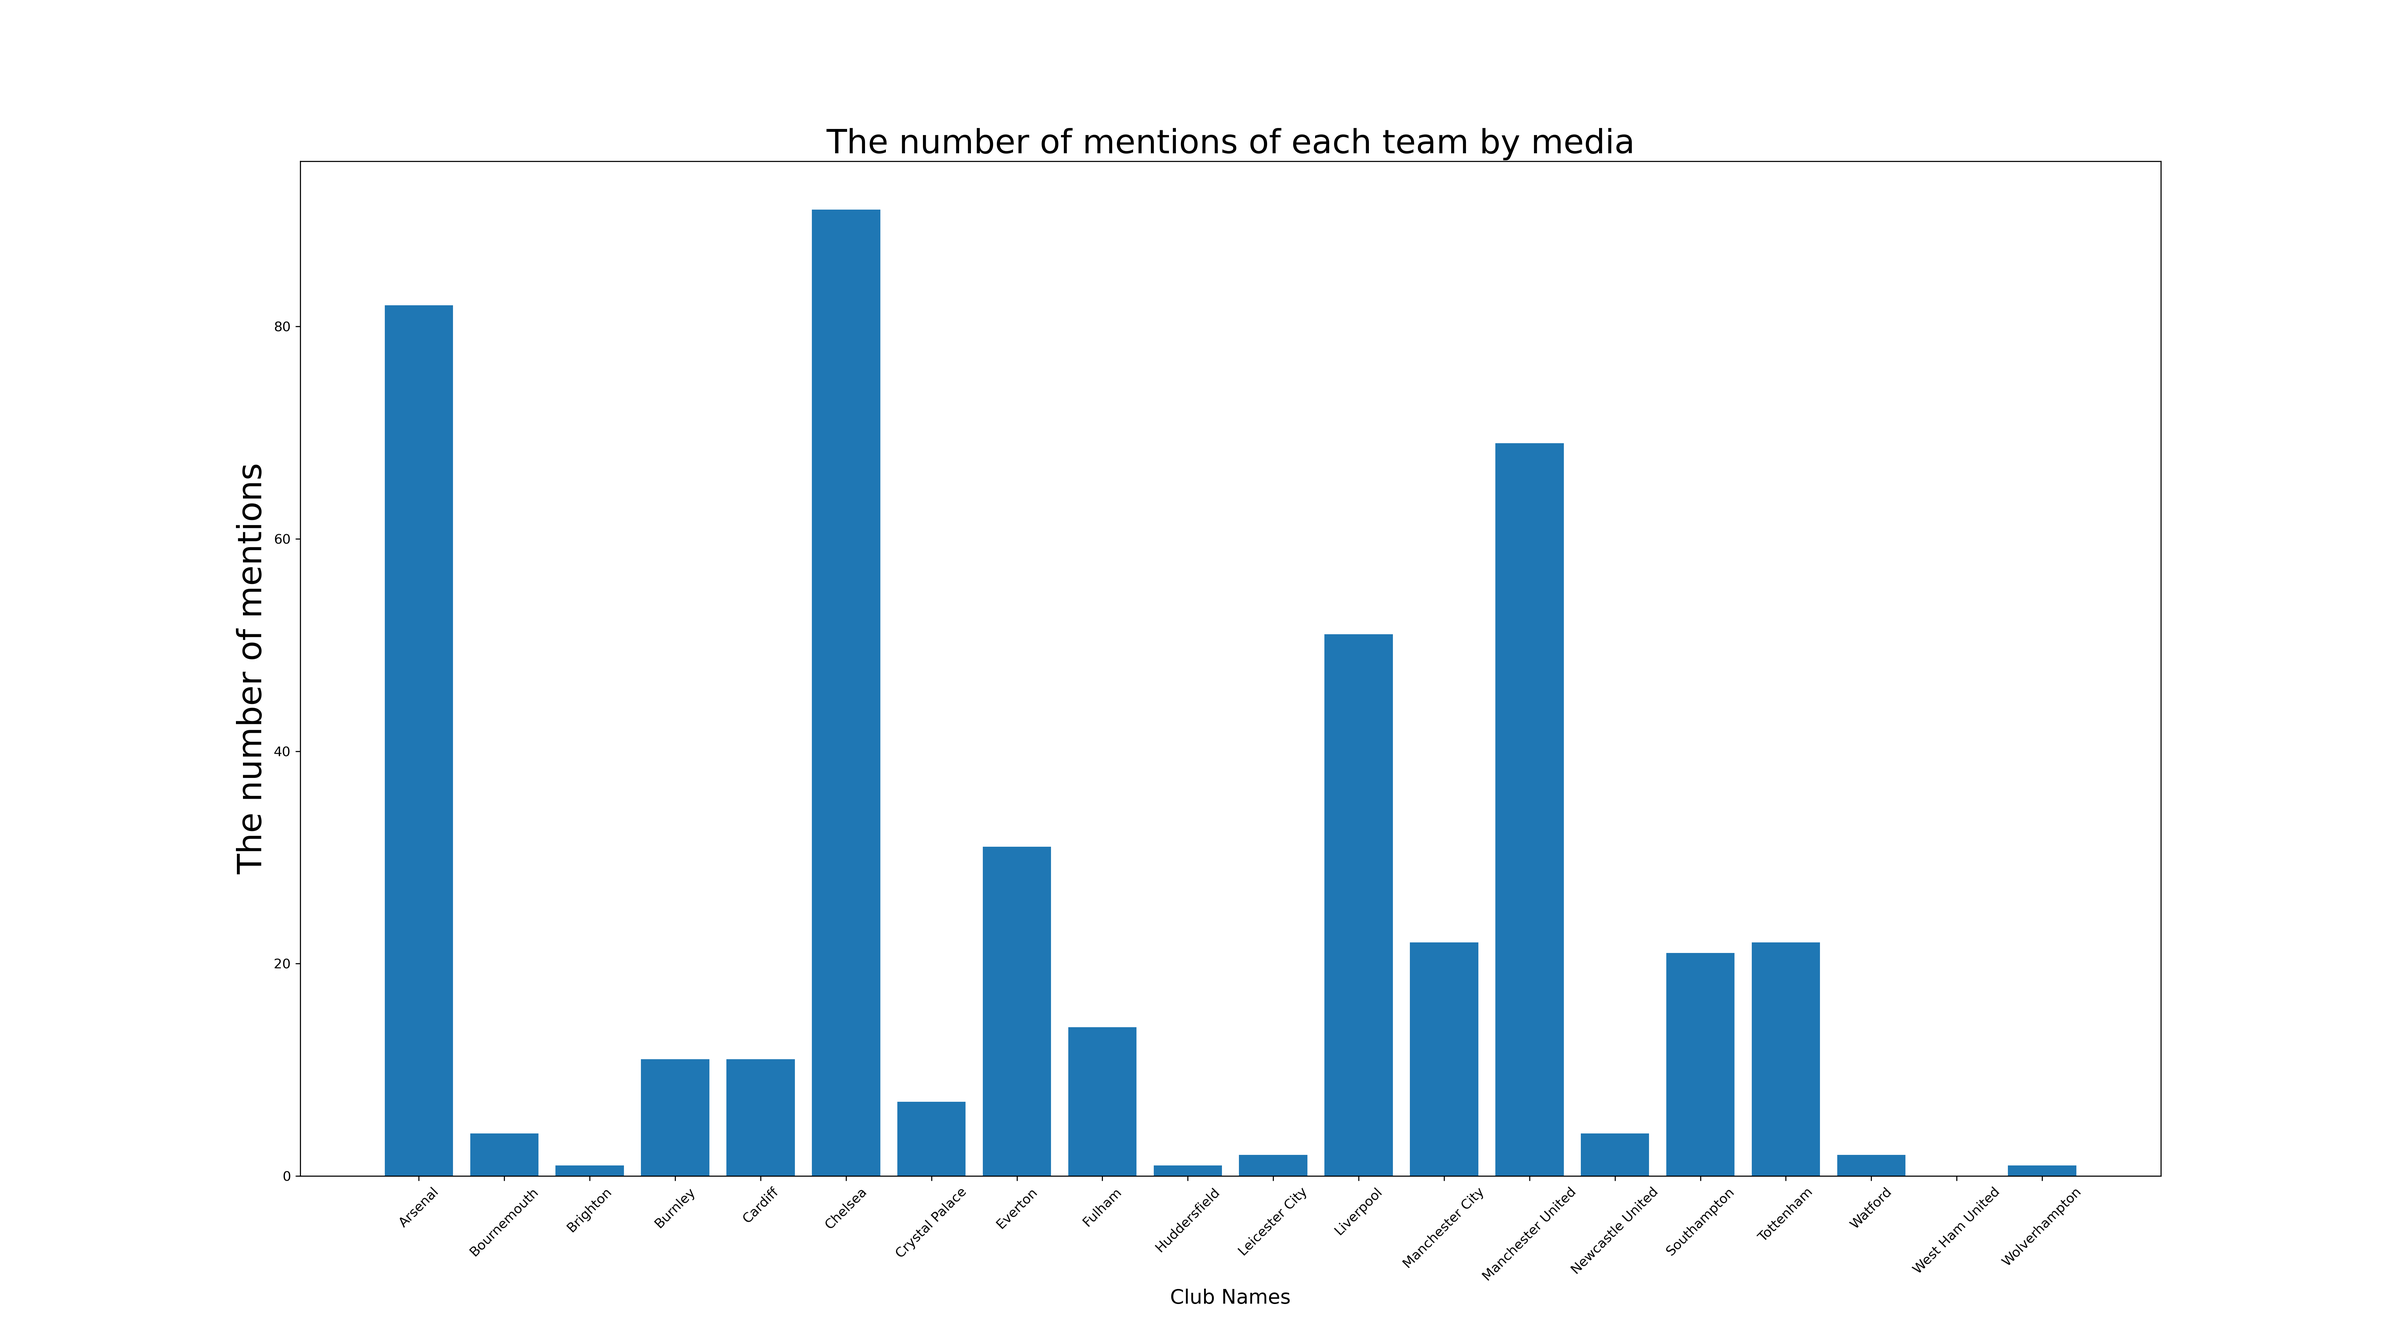
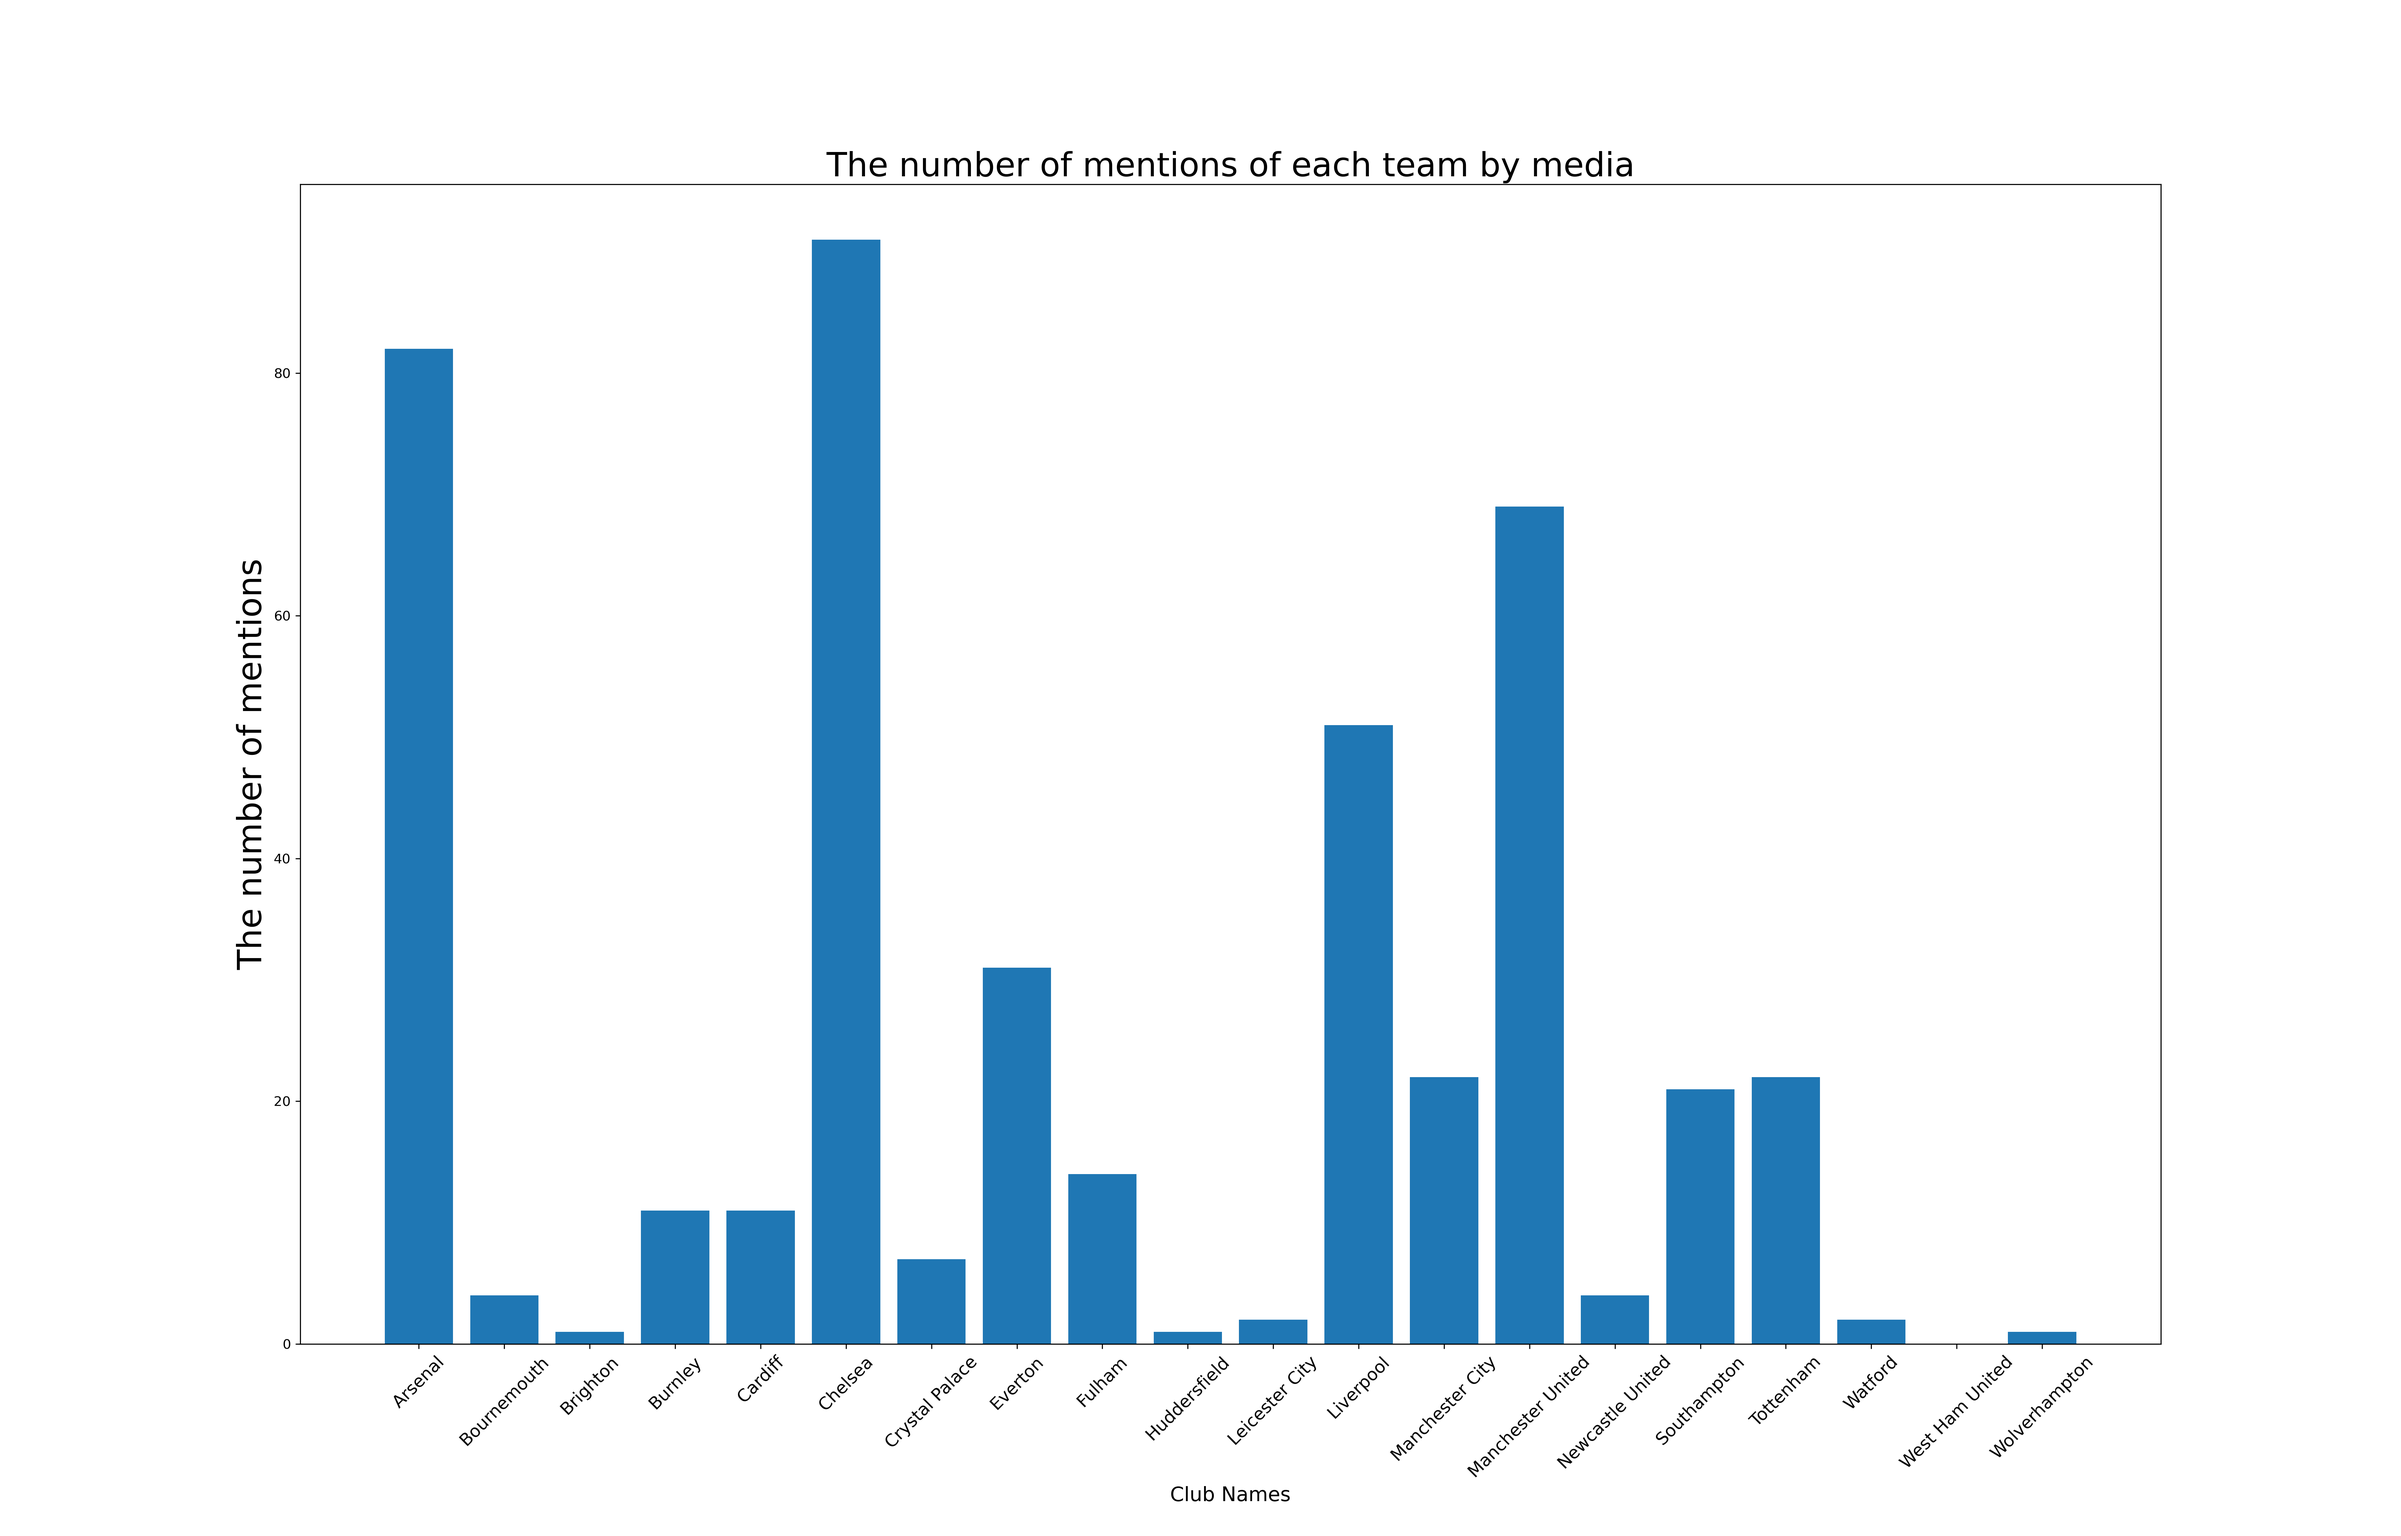
Update September 2nd

diff --git a/assignment1.py b/assignment1.py
@@ -13,7 +13,6 @@ import csv
 import os
 import re
 import seaborn as sns
-import nltk
 from nltk import word_tokenize
 from nltk.corpus import stopwords
 from sklearn.feature_extraction.text import TfidfTransformer
@@ -24,7 +23,6 @@ from numpy.linalg import norm
 datafilepath = 'data/data.json'
 articlespath = 'data/football'
 
-#The task1 is finished!!
 def task1():
     #Complete task 1 here
     with open(datafilepath) as fjson:
@@ -56,7 +54,8 @@ def task2():
         
     t2_out = open("task2.csv", 'w', newline = '')
     output = csv.writer(t2_out)
-    headings = ["team_code","goals_scored_by_team", "goals_scored_against_team"]
+    headings = ["team_code","goals_scored_by_team", 
+                "goals_scored_against_team"]
     output.writerow(headings)
     for i in range(0, len(list_tc)):
         row = [list_tc[i], goalscore[i], goalconc[i]]
@@ -136,7 +135,6 @@ def stat_check(lscore):
     print(lscore[int(med)])
     k3 = (len(lscore)-1)*0.75+1
     print(lscore[int(k3)])
-    #IQR = lscore[int(k3)]-lscore[int(k1)]
     outlier = 0
     for i in lscore:
         if i > 3+1.5*3:
@@ -168,12 +166,16 @@ def task5():
     task5_out.close()
     
     team_mention = clubdic.values()
+    plt.subplots(figsize = (25,16))
     plt.bar(arange(len(team_mention)), team_mention)
-    plt.xticks(arange(len(list_tn)), list_tn, rotation = 90)
-    plt.ylabel("The number of mentions")
-    plt.title("The number of mentions of each team by media")
+    plt.xticks(arange(len(list_tn)), list_tn, rotation = 45, fontsize = 13)
+    plt.ylabel("The number of mentions", fontsize = 25)
+    plt.xlabel("Club Names", fontsize = 15)
+    plt.title("The number of mentions of each team by media", 
+              fontdict = {'weight':'normal','size':25})
     plt.savefig("task5.png", dpi = 300)
     plt.show()
+    plt.close()
     return
 
 def count_mention(filename, pattern, Dict):
@@ -186,10 +188,7 @@ def count_mention(filename, pattern, Dict):
 
 def task6():
     #Complete task 6 here, will be done on 8.25.
-    #os.chdir("E:/2021 SM 2 2021.7--11/assignments/EODP/individual/My_assignment/data/football")
-    #filepath = r'E:/2021 SM 2 2021.7--11/assignments/EODP/individual/My_assignment/data/football'
     dirs = os.listdir(articlespath)
-    #task5()
     file = open("task5.csv", 'r')
     read = csv.reader(file)
     head = next(read)
@@ -198,7 +197,6 @@ def task6():
     name_list = []
     for i in data:
         name_list.append(i[0])
-    #print(name_list)
     sims = {}
     dirs = os.listdir(articlespath)
     
@@ -206,14 +204,17 @@ def task6():
         sims[data[i][0]] = []
         for j in range(len(data)):
             interact = co_check(data[i][0], data[j][0], dirs)
-            #print(interact)
             similarity = calculate_sim_score(data[i], data[j], interact)
             sims[data[i][0]].append(similarity)
 
     sim_data = pd.DataFrame(sims, index = name_list)
-    sns.heatmap(sim_data, cmap = 'viridis', xticklabels=True)
+    plt.subplots(figsize = (18,15))
+    sns.heatmap(sim_data, cmap = 'rocket_r', xticklabels=True)
+    plt.xticks(fontsize = 14, rotation = 60)
+    plt.yticks(fontsize = 14)
     plt.savefig("task6.png", dpi = 500)
     plt.show()
+    plt.close()
     return
 
 def co_check(pattern1, pattern2, filenames):
@@ -240,8 +241,6 @@ def calculate_sim_score(list1, list2, shared):
 
 def task7():
     #Complete task 7 here
-    #task2()
-    #task5()
     data_goal = open("task2.csv", 'r')
     data_mention = open("task5.csv", 'r')
     goal = csv.reader(data_goal)
@@ -255,21 +254,19 @@ def task7():
     data_mention.close()
     goal_list = [int(i[1]) for i in goals]
     mention_list = [int(j[-1]) for j in mentions]
-    #print(goal_list)
-    #print(mention_list)
-    plt.scatter(mention_list, goal_list,color = "red", alpha = 0.6)
-    plt.xlim(0,100)
-    plt.ylim(0, 14)
+    plt.scatter(goal_list, mention_list,color = "red", alpha = 0.6)
+    plt.xlim(0,14)
+    plt.ylim(0, 100)
     plt.title("Relationship of frequency of mention and goals scored by club")
-    plt.xlabel("number of articles mentioning club")
-    plt.ylabel("number of goals scored by club")
+    plt.ylabel("number of articles mentioning club")
+    plt.xlabel("number of goals scored by club")
     plt.grid(True)
     plt.savefig("task7.png", dpi = 500)
     plt.show()
     return
     
 def task8(filename):
-    #Complete task 8 here, 截止8月31日，需完成至此。
+    #Complete task 8 here
     file = open(filename, 'r')
     strings = file.read()
     #ensure only white spaces in between.
@@ -315,7 +312,7 @@ def remove_while_retain(strings):
 '''    
 
 def task9():
-    #Complete task 9 here，于9月3日之前完成。
+    #Complete task 9 here
     dirs = os.listdir(articlespath)
     wordbags = {}
     all_words = []
@@ -353,8 +350,6 @@ def task9():
 
 def construct_frequency(word_bank, values):
     tfreq = []
-    
-    #iterate over all dicts for each file.
     for i in values:
         file_count = []
         file_words = list(i.keys())
@@ -374,10 +369,8 @@ def calculate_tfidf(raw_tf):
     return docs_arr
 
 def count_dict(word_bag):
-    #采集空字典。
     wordDict = {}
     for word in word_bag:
-        #有词加一，无词添一。
         if word not in wordDict:
             wordDict[word] = 1
         else:
@@ -387,9 +380,6 @@ def count_dict(word_bag):
 def cos_sim(v1, v2):
     result = np.dot(v1, v2)/(norm(v1)*norm(v2))
     return format(result, '.16f')
-
-
-
 
 def answer_check(filename):
     out = task8(filename)

diff --git a/main.py b/main.py
@@ -39,7 +39,7 @@ def task9verifier(tasknum, path, answer):
             print(answer)
     except:
         print('Unable to open ' + path + '.  File may not exist')
-
+                                            
 def verifytask1():
     task1out = task1()
     answer = ['ARS', 'BHA', 'BOU', 'BUR', 'CAR', 'CHE', 'CRY', 'EVE', 'FUL', 'HUD', 'LEI', 'LIV', 'MCI', 'MUN', 'NEW', 'SOU', 'TOT', 'WAT', 'WHU', 'WOL']
